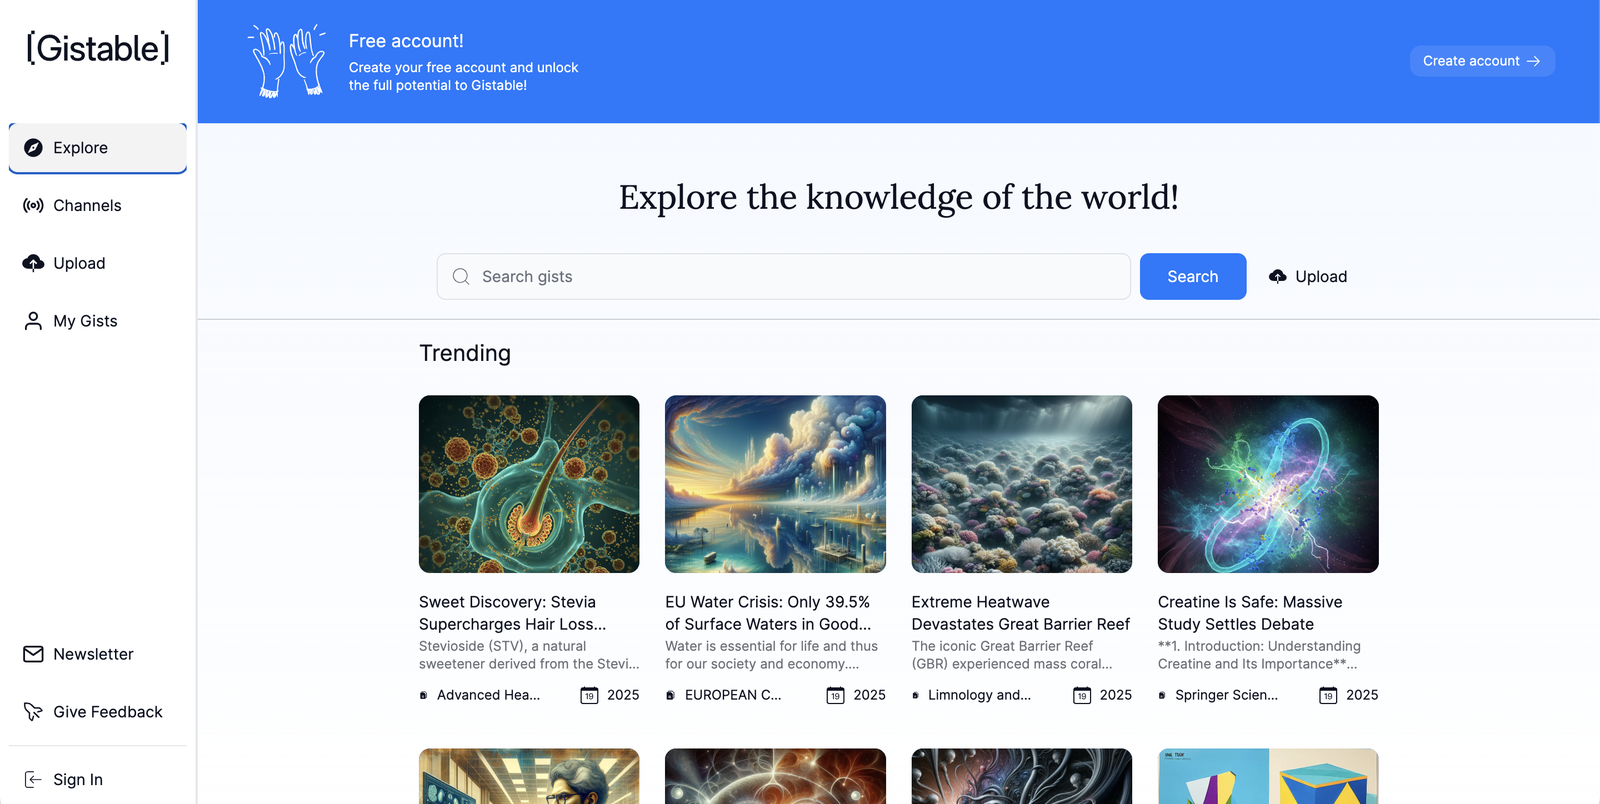
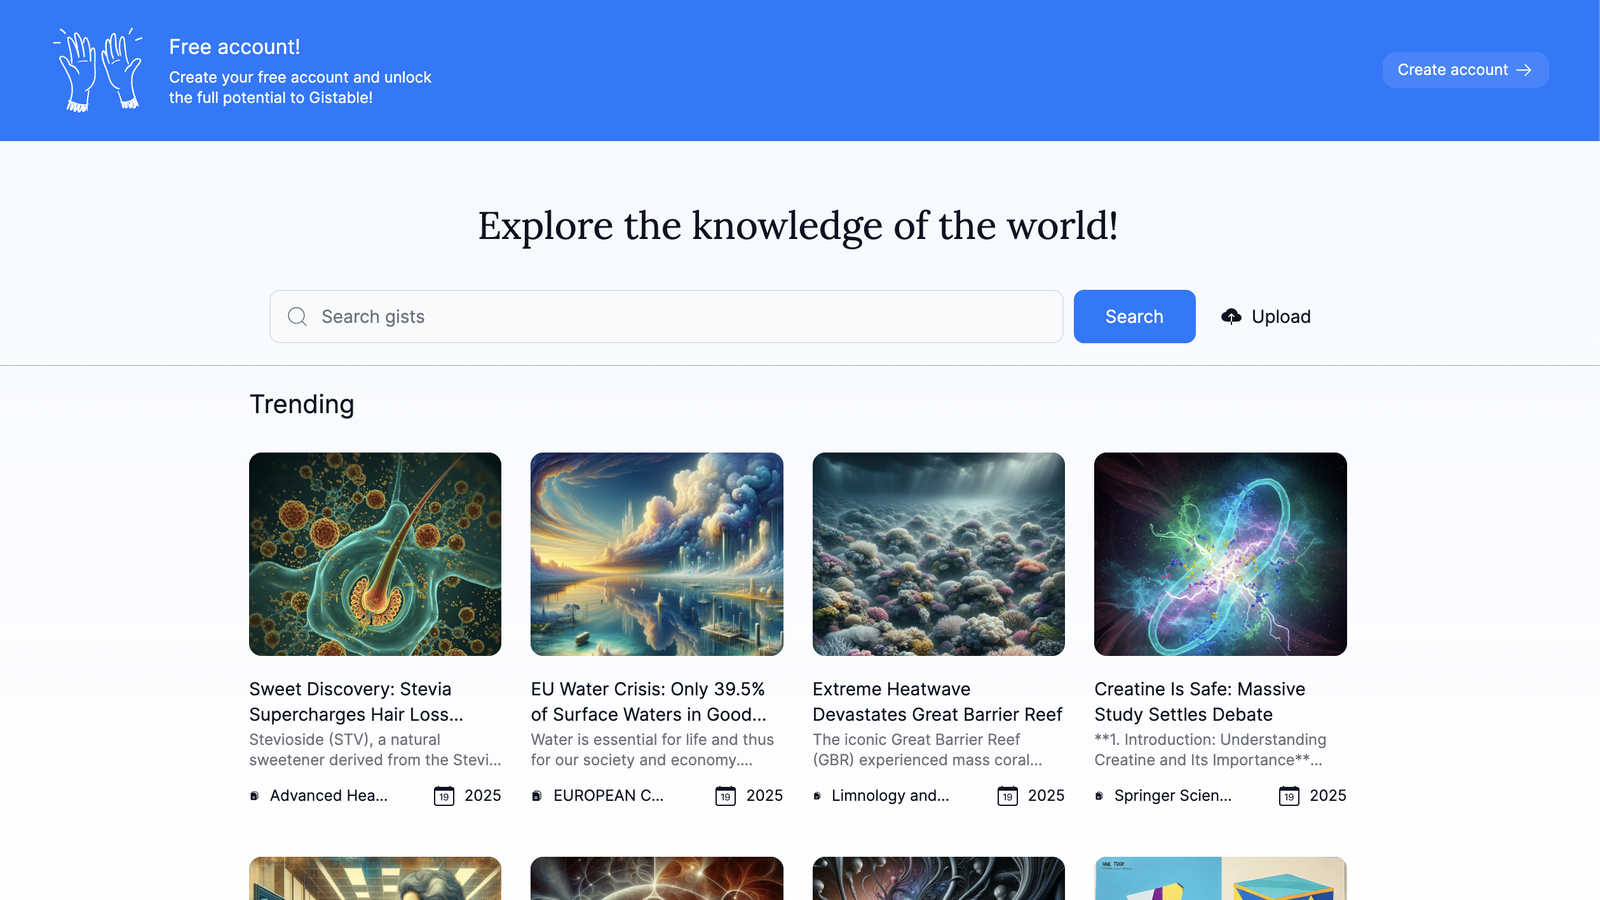
Portfolio refinements: black header, dates, contact links
- Sticky header: solid black with hard bottom edge (no gradient fade)
- Cover strip: "Portfolio" without year; ad captions without agency names
- Ventures: Gistable 09/2023, Independent Wire 03/2026; Gistable screenshot
  re-cropped past the sidebar (16:9 cards)
- Toolbox: Anthropic API -> Agents
- Contact: GitHub row, headline mails deniz.schwenk@gmail.com
- Console bar: drop design-meta colophon line

diff --git a/index.html b/index.html
@@ -16,7 +16,7 @@
     <span class="cd k">Deniz Schwenk</span>
     <span class="cd">Art Direction — Media Production — Product &amp; AI</span>
     <span class="cd">Berlin, DE</span>
-    <span class="cd">Portfolio / 2026</span>
+    <span class="cd">Portfolio</span>
   </div>
   <h1 class="plate" data-fit>Deniz Schwenk<span class="dot">.</span></h1>
   <hr>
@@ -50,13 +50,13 @@
     <div class="wtrack">
       <figure class="w"><div class="duo"><img src="assets/portfolio/ads/pringles-1.jpg" alt="Pringles" loading="lazy"></div><figcaption><span class="cd">01</span><span class="t">Pringles</span><span class="cd">Ad</span></figcaption></figure>
       <figure class="w"><div class="duo"><img src="assets/portfolio/ads/pringles-2.jpg" alt="Pringles" loading="lazy"></div><figcaption><span class="cd">02</span><span class="t">Pringles</span><span class="cd">Ad</span></figcaption></figure>
-      <figure class="l"><div class="duo"><img src="assets/portfolio/ads/harvey-nichols-1.jpg" alt="Harvey Nichols" loading="lazy"></div><figcaption><span class="cd">03</span><span class="t">Harvey Nichols</span><span class="cd">Ad · Ogilvy</span></figcaption></figure>
-      <figure class="l"><div class="duo"><img src="assets/portfolio/ads/harvey-nichols-2.jpg" alt="Harvey Nichols" loading="lazy"></div><figcaption><span class="cd">04</span><span class="t">Harvey Nichols</span><span class="cd">Ad · Ogilvy</span></figcaption></figure>
-      <figure class="l"><div class="duo"><img src="assets/portfolio/ads/harvey-nichols-3.jpg" alt="Harvey Nichols" loading="lazy"></div><figcaption><span class="cd">05</span><span class="t">Harvey Nichols</span><span class="cd">Ad · Ogilvy</span></figcaption></figure>
+      <figure class="l"><div class="duo"><img src="assets/portfolio/ads/harvey-nichols-1.jpg" alt="Harvey Nichols" loading="lazy"></div><figcaption><span class="cd">03</span><span class="t">Harvey Nichols</span><span class="cd">Ad</span></figcaption></figure>
+      <figure class="l"><div class="duo"><img src="assets/portfolio/ads/harvey-nichols-2.jpg" alt="Harvey Nichols" loading="lazy"></div><figcaption><span class="cd">04</span><span class="t">Harvey Nichols</span><span class="cd">Ad</span></figcaption></figure>
+      <figure class="l"><div class="duo"><img src="assets/portfolio/ads/harvey-nichols-3.jpg" alt="Harvey Nichols" loading="lazy"></div><figcaption><span class="cd">05</span><span class="t">Harvey Nichols</span><span class="cd">Ad</span></figcaption></figure>
       <figure class="l"><div class="duo"><img src="assets/portfolio/ads/cumhuriyet-1.jpg" alt="Cumhuriyet" loading="lazy"></div><figcaption><span class="cd">06</span><span class="t">Cumhuriyet</span><span class="cd">Ad</span></figcaption></figure>
       <figure class="l"><div class="duo"><img src="assets/portfolio/ads/cumhuriyet-2.jpg" alt="Cumhuriyet" loading="lazy"></div><figcaption><span class="cd">07</span><span class="t">Cumhuriyet</span><span class="cd">Ad</span></figcaption></figure>
-      <figure class="l"><div class="duo"><img src="assets/portfolio/ads/amnesty-2.jpg" alt="Amnesty International" loading="lazy"></div><figcaption><span class="cd">08</span><span class="t">Amnesty International</span><span class="cd">Ad · Grey</span></figcaption></figure>
-      <figure class="p"><div class="duo"><img src="assets/portfolio/ads/amnesty-1.jpg" alt="Amnesty International" loading="lazy"></div><figcaption><span class="cd">09</span><span class="t">Amnesty International</span><span class="cd">Ad · Grey</span></figcaption></figure>
+      <figure class="l"><div class="duo"><img src="assets/portfolio/ads/amnesty-2.jpg" alt="Amnesty International" loading="lazy"></div><figcaption><span class="cd">08</span><span class="t">Amnesty International</span><span class="cd">Ad</span></figcaption></figure>
+      <figure class="p"><div class="duo"><img src="assets/portfolio/ads/amnesty-1.jpg" alt="Amnesty International" loading="lazy"></div><figcaption><span class="cd">09</span><span class="t">Amnesty International</span><span class="cd">Ad</span></figcaption></figure>
       <figure class="p"><div class="duo"><img src="assets/portfolio/ads/praktiker-1.jpg" alt="Praktiker" loading="lazy"></div><figcaption><span class="cd">10</span><span class="t">Praktiker</span><span class="cd">Ad</span></figcaption></figure>
       <figure class="p"><div class="duo"><img src="assets/portfolio/ads/praktiker-2.jpg" alt="Praktiker" loading="lazy"></div><figcaption><span class="cd">11</span><span class="t">Praktiker</span><span class="cd">Ad</span></figcaption></figure>
       <figure class="p"><div class="duo"><img src="assets/portfolio/ads/ford.jpg" alt="Ford" loading="lazy"></div><figcaption><span class="cd">12</span><span class="t">Ford</span><span class="cd">Ad</span></figcaption></figure>
@@ -105,15 +105,15 @@
 <section id="ventures" class="bleed">
   <div class="shead"><span class="cd k">§ 03 — Ventures</span><span class="cd">Built, not briefed</span></div>
   <h2 class="stitle xp" data-split>Two things I own end to end.</h2>
-  <a class="vent" href="https://app.gistable.com/" data-rv><span class="cd k">01 / 2023</span><div><h3 class="xp">Gistable</h3><p style="margin-top:.5rem">Co-founded platform turning source material into publishable content through a multi-agent pipeline. I own product, UX, and the prompt architecture.</p></div><div class="duo pale" style="aspect-ratio:16/10"><img src="assets/product/gistable.png" alt="Gistable" style="width:100%;height:100%;object-fit:cover;object-position:50% 0"></div><span class="cd k go">Visit <span class="goarrow">→</span></span></a>
-  <a class="vent" href="https://independent-wire.org" data-rv data-d="1"><span class="cd k">02 / 2024</span><div><h3 class="xp">Independent Wire</h3><p style="margin-top:.5rem">An initiative supporting independent reporting — infrastructure and editorial tooling for newsrooms working without a large back office.</p></div><div class="duo pale" style="aspect-ratio:16/10"><img src="assets/product/independent-wire.png" alt="Independent Wire" style="width:100%;height:100%;object-fit:cover;object-position:50% 0"></div><span class="cd k go">Visit <span class="goarrow">→</span></span></a>
+  <a class="vent" href="https://app.gistable.com/" data-rv><span class="cd k">01 · 09/2023</span><div><h3 class="xp">Gistable</h3><p style="margin-top:.5rem">Co-founded platform turning source material into publishable content through a multi-agent pipeline. I own product, UX, and the prompt architecture.</p></div><div class="duo pale" style="aspect-ratio:16/9"><img src="assets/product/gistable.png" alt="Gistable" style="width:100%;height:100%;object-fit:cover;object-position:50% 0"></div><span class="cd k go">Visit <span class="goarrow">→</span></span></a>
+  <a class="vent" href="https://independent-wire.org" data-rv data-d="1"><span class="cd k">02 · 03/2026</span><div><h3 class="xp">Independent Wire</h3><p style="margin-top:.5rem">An initiative supporting independent reporting — infrastructure and editorial tooling for newsrooms working without a large back office.</p></div><div class="duo pale" style="aspect-ratio:16/9"><img src="assets/product/independent-wire.png" alt="Independent Wire" style="width:100%;height:100%;object-fit:cover;object-position:50% 0"></div><span class="cd k go">Visit <span class="goarrow">→</span></span></a>
 </section>
 
 <section id="caps" class="bleed">
   <div class="shead"><span class="cd k">§ 04 — Toolbox</span><span class="cd">Four columns</span></div>
   <div class="caps" data-rv>
     <div><h4 class="cd k">Design</h4><ul><li>Photoshop</li><li>Illustrator</li><li>InDesign</li><li>Figma</li><li>Affinity</li><li>DaVinci Resolve</li></ul></div>
-    <div><h4 class="cd k">AI / LLM</h4><ul><li>Multi-agent pipelines</li><li>Prompt engineering</li><li>LLM orchestration</li><li>Claude Code</li><li>Anthropic API</li></ul></div>
+    <div><h4 class="cd k">AI / LLM</h4><ul><li>Multi-agent pipelines</li><li>Prompt engineering</li><li>LLM orchestration</li><li>Claude Code</li><li>Agents</li></ul></div>
     <div><h4 class="cd k">Code</h4><ul><li>HTML / CSS</li><li>JavaScript</li><li>Python</li><li>SQL</li></ul></div>
     <div><h4 class="cd k">Workflow</h4><ul><li>Asana</li><li>Notion</li><li>NewsGate CMS</li><li>Preflight</li><li>PDF workflows</li></ul></div>
   </div>
@@ -140,9 +140,10 @@
 
 <section id="contact" class="contact bleed">
   <div class="shead"><span class="cd k" style="color:var(--spot)">§ 06 — Contact</span><span class="cd">Berlin, DE</span></div>
-  <h2 class="stitle xp" data-split>Let’s create <span class="sp">impact.</span></h2>
+  <a class="mailhead" href="mailto:deniz.schwenk@gmail.com"><h2 class="stitle xp" data-split>Let’s create <span class="sp">impact.</span></h2></a>
   <p class="lead" data-rv style="margin-bottom:clamp(2rem,4vw,3rem)">Always open to meaningful projects, new perspectives, and the kind of work that actually makes a difference. Available for agency and brand projects, and for permanent product roles.</p>
   <a class="crow" href="https://www.linkedin.com/in/deniz-schwenk-2957b820"><span class="cd">LinkedIn</span><span class="v">deniz-schwenk <span class="goarrow">→</span></span></a>
+  <a class="crow" href="https://github.com/deniz-schwenk"><span class="cd">GitHub</span><span class="v">deniz-schwenk <span class="goarrow">→</span></span></a>
   <div class="crow"><span class="cd">Location</span><span class="v">Berlin, Germany</span></div>
   <div class="crow"><span class="cd">Languages</span><span class="v">German · English · Turkish</span></div>
   <footer><span class="cd">Deniz Schwenk — Berlin</span><span class="cd">Built with precision</span></footer>
@@ -151,7 +152,6 @@
 <div class="console">
   <i class="bar" data-progress></i>
   <span data-sec>§ 00 — Statement</span>
-  <span class="mid">Archivo × Newsreader / 12-column register / plate white · signal chartreuse</span>
   <span style="display:flex;gap:.75rem;align-items:center"><span data-pct>0 %</span><button data-raster aria-pressed="false">Raster</button></span>
 </div>
 

diff --git a/site-plate.css b/site-plate.css
@@ -39,22 +39,21 @@ body.raster-on .raster{opacity:1}
 .console{position:fixed;left:0;right:0;bottom:0;height:34px;z-index:90;background:var(--paper);border-top:1px solid var(--line);display:flex;align-items:center;justify-content:space-between;gap:1rem;padding:0 var(--pad)}
 .console .bar{position:absolute;top:-1px;left:0;height:1px;background:var(--spot);width:100%;transform:scaleX(0);transform-origin:0 50%}
 .console span,.console button{font-family:var(--fx);font-variation-settings:'wdth' 76;font-weight:600;text-transform:uppercase;letter-spacing:.15em;font-size:.62rem;color:var(--ink);white-space:nowrap}
-.console .mid{color:var(--ink-2);overflow:hidden;text-overflow:ellipsis}
 .console button{background:none;border:0;padding:.2rem .4rem;cursor:pointer}
 .console button[aria-pressed="true"]{background:var(--ink);color:var(--spot)}
-@media(max-width:720px){.console .mid{display:none}}
 
 /* ── top chrome ── */
-header.top{position:fixed;top:0;left:0;right:0;z-index:70;display:flex;justify-content:space-between;align-items:center;gap:1rem;padding:clamp(.7rem,1.6vw,1.1rem) var(--pad);background:linear-gradient(var(--paper) 62%,rgba(245,243,238,0));pointer-events:none}
+header.top{position:fixed;top:0;left:0;right:0;z-index:70;display:flex;justify-content:space-between;align-items:center;gap:1rem;padding:clamp(.7rem,1.6vw,1.1rem) var(--pad);background:var(--ink);border-bottom:1px solid var(--ink);pointer-events:none}
 header.top>*{pointer-events:auto}
 header.top nav{display:flex;gap:clamp(.75rem,1.8vw,1.75rem)}
 header.top a{font-family:var(--fx);font-variation-settings:'wdth' 76;font-weight:600;text-transform:uppercase;letter-spacing:.15em;font-size:.64rem;position:relative}
-header.top nav a{color:var(--ink-2)}
-header.top nav a:after{content:"";position:absolute;left:-.15em;right:-.15em;bottom:-.25em;height:.62em;background:var(--spot);z-index:-1;transform:scaleY(0);transform-origin:50% 100%;transition:transform .35s var(--ez)}
+header.top nav a{color:rgba(245,243,238,.62)}
+header.top nav a:after{content:"";position:absolute;left:-.15em;right:-.15em;top:-.2em;bottom:-.2em;background:var(--spot);z-index:-1;transform:scaleY(0);transform-origin:50% 100%;transition:transform .35s var(--ez)}
 header.top nav a:hover{color:var(--ink)}
 header.top nav a:hover:after{transform:scaleY(1)}
-header.top .id{color:var(--ink);letter-spacing:.2em}
+header.top .id{color:var(--paper);letter-spacing:.2em}
 @media(max-width:760px){header.top nav a:nth-child(n+4){display:none}}
+header.top a:focus-visible{outline-color:var(--spot)}
 
 /* ── cover ── */
 .cover{padding-top:clamp(4.5rem,9vw,7rem);padding-bottom:0}
@@ -205,7 +204,10 @@ header.top .id{color:var(--ink);letter-spacing:.2em}
 .contact .lead{color:rgba(245,243,238,.78)}
 .contact .lead b{color:var(--paper)}
 .crow{display:grid;grid-template-columns:minmax(96px,1.1fr) minmax(0,6fr);gap:clamp(.8rem,2.4vw,2.4rem);padding:.95rem 0;border-bottom:1px solid rgba(245,243,238,.22);align-items:baseline}
-.crow:first-of-type{border-top:1px solid rgba(245,243,238,.4)}
+.contact .lead+.crow{border-top:1px solid rgba(245,243,238,.4)}
+.contact a.mailhead{display:block}
+.contact a.mailhead .stitle{transition:color .35s var(--ez)}
+.contact a.mailhead:hover .stitle{color:var(--spot)}
 .crow .v{font-family:var(--fx);font-variation-settings:'wdth' 100;font-weight:600;font-size:1.05rem}
 .crow a .v{position:relative}
 .crow a:hover .v{color:var(--spot)}
